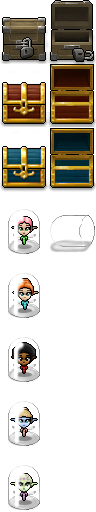
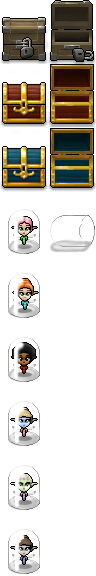
ADD New familiar: Stone fairy

diff --git a/src/Items.h b/src/Items.h
@@ -29,6 +29,7 @@ enum enumFamiliar
   FamiliarFairyFire,    /**< Fire Fairy */
   FamiliarFairyIce,     /**< Ice Fairy */
   FamiliarFairyPoison,  /**< Poison Fairy */
+  FamiliarFairyStone,   /**< Stone Fairy */
 };
 
 // spells
@@ -152,6 +153,7 @@ enum enumItemType
   ItemBootsAdvanced,
   ItemBag,
   ItemBookAlchemy,
+  ItemFairyStone,
 
   NUMBER_ITEMS
 };
@@ -515,6 +517,10 @@ const itemStuct items[NUMBER_ITEMS] =
     ItemBookAlchemy, "item_book_alchemy", "item_book_alchemy_desc",
     20, true, FamiliarNone, true, true, true, 1, RarityRare, false, -1, ShotTypeStandard, SpellNone, false
   },
+  {
+    ItemFairyStone, "item_fairy_stone", "item_fairy_stone_desc",
+    30, true, FamiliarFairyStone, false, true, true, 2, RarityUncommon, false, -1, ShotTypeStandard, SpellNone, false
+  },
 };
 
 /** Item equipment type enum
@@ -584,6 +590,7 @@ enum item_equip_enum {
   EQUIP_BOOTS_ADVANCED,
   EQUIP_BAG,
   EQUIP_BOOK_ALCHEMY,
+  EQUIP_FAIRY_STONE,
 
   NUMBER_EQUIP_ITEMS
   };
@@ -645,6 +652,7 @@ const std::vector<item_equip_enum> sortedEquipement =
   EQUIP_FAIRY_FIRE,
   EQUIP_FAIRY_POISON,
   EQUIP_FAIRY_TARGET,
+  EQUIP_FAIRY_STONE,
   EQUIP_PET_SLIME,
 
   // spells

diff --git a/src/PlayerEntity.cpp b/src/PlayerEntity.cpp
@@ -1061,10 +1061,10 @@ void PlayerEntity::render(sf::RenderTarget* app)
 
       switch (facingDirection)
       {
-        case 8: fairySprite.setTextureRect(sf::IntRect( (2 + frame) * 48, 5 * 72, 48, 72)); break;
-        case 4: fairySprite.setTextureRect(sf::IntRect( (4 + frame) * 48, 5 * 72, 48, 72)); break;
-        case 6: fairySprite.setTextureRect(sf::IntRect( (5 + frame) * 48, 5 * 72, - 48, 72)); break;
-        default: fairySprite.setTextureRect(sf::IntRect( frame * 48, 5 * 72, 48, 72)); break;
+        case 8: fairySprite.setTextureRect(sf::IntRect( (2 + frame) * 48, 6 * 72, 48, 72)); break;
+        case 4: fairySprite.setTextureRect(sf::IntRect( (4 + frame) * 48, 6 * 72, 48, 72)); break;
+        case 6: fairySprite.setTextureRect(sf::IntRect( (5 + frame) * 48, 6 * 72, - 48, 72)); break;
+        default: fairySprite.setTextureRect(sf::IntRect( frame * 48, 6 * 72, 48, 72)); break;
       }
       app->draw(fairySprite);
     }

diff --git a/src/FairyEntity.cpp b/src/FairyEntity.cpp
@@ -49,6 +49,10 @@ FairyEntity::FairyEntity(float x, float y, enumFamiliar fairyType) : SpriteEntit
     shotType = ShotTypePoison;
     fairyFireDelay = ICE_FAIRY_FIRE_DELAY;
     break;
+  case FamiliarFairyStone:
+    shotType = ShotTypeStone;
+    fairyFireDelay = FAIRY_FIRE_DELAY;
+    break;
 
   case FamiliarNone:
     break;
